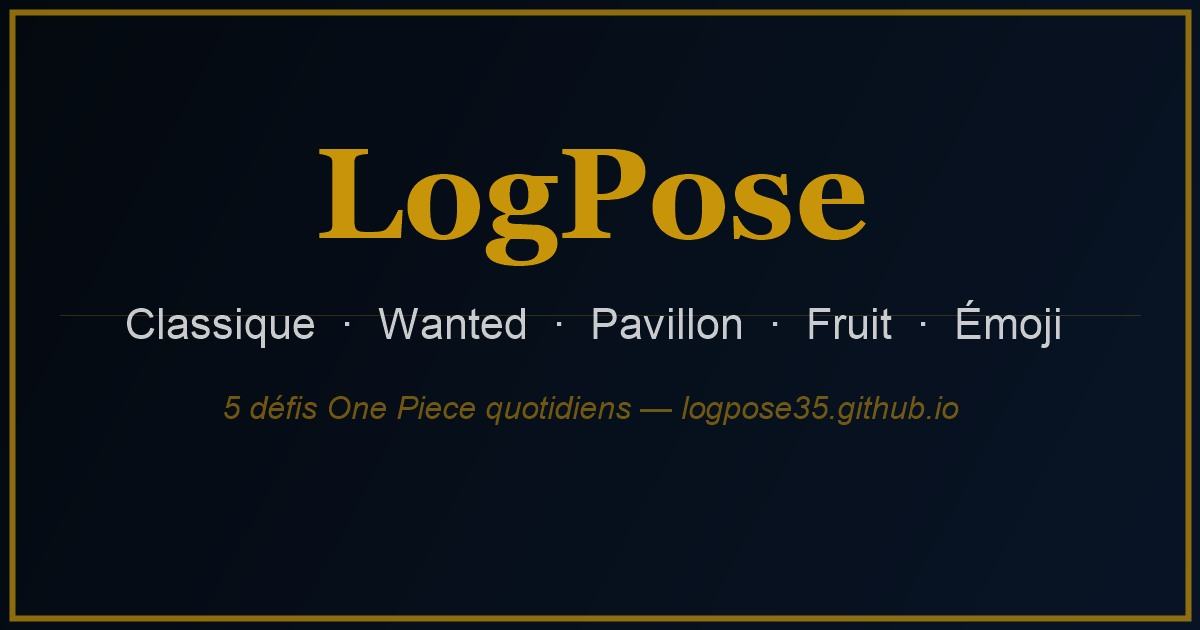
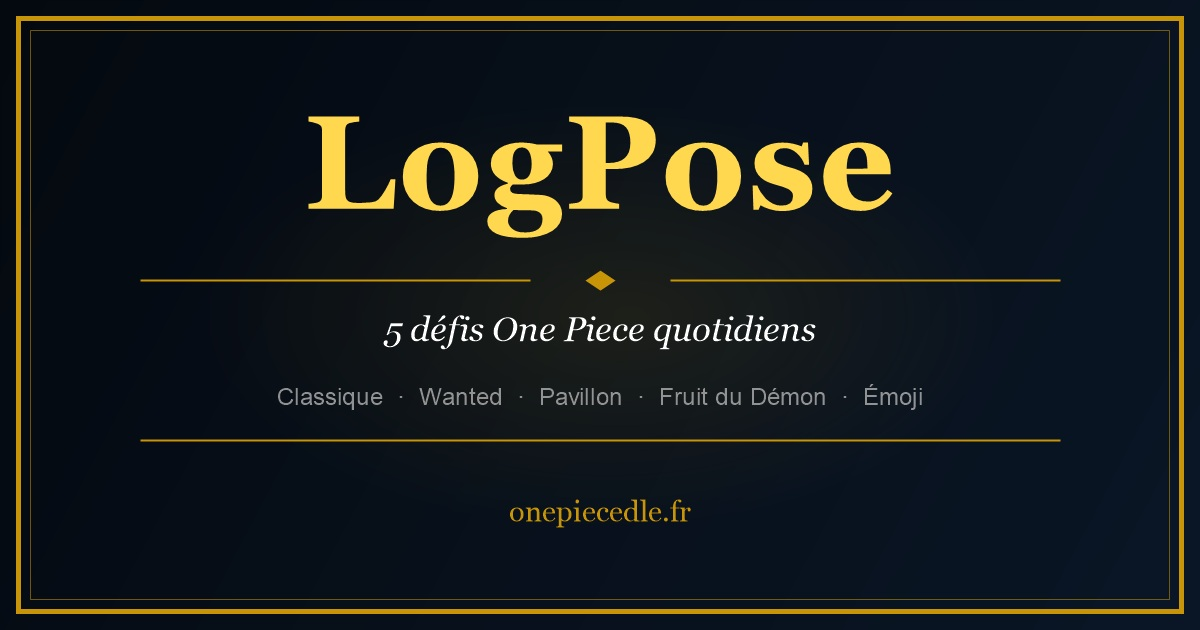
Fix barre hier (localStorage) + nouvelle og:image + v58
- "Hier" lu depuis localStorage au lieu du seed (précis après changement de données)
- Nouvelle og:image 1200x630 plus élaborée (cadre doré, géométrie, onepiecedle.fr)

diff --git a/js/app.js b/js/app.js
@@ -138,13 +138,30 @@ function seedForDate(d, salt = 1) {
   const base = d.getFullYear() * 10000 + (d.getMonth() + 1) * 100 + d.getDate();
   return (base * salt) >>> 0;
 }
-const yesterday = new Date(); yesterday.setDate(yesterday.getDate() - 1);
-const yChar   = CHARACTERS[seedForDate(yesterday,  1)   % CHARACTERS.length];
-const yWanted = WANTED_CHARS[seedForDate(yesterday, 31)  % WANTED_CHARS.length];
-const yFlag   = FLAGS[seedForDate(yesterday,        97)  % FLAGS.length];
-const yEmoji  = EMOJI_POOL[seedForDate(yesterday,   137) % EMOJI_POOL.length];
-document.getElementById('yesterday-bar').innerHTML =
-  `Hier — Classique : <strong>${esc(yChar.name)}</strong> &nbsp;|&nbsp; Wanted : <strong>${esc(yWanted.name)}</strong> &nbsp;|&nbsp; Pavillon : <strong>${esc(yFlag.name)}</strong> &nbsp;|&nbsp; Émoji : <strong>${esc(yEmoji.name)}</strong>`;
+// Sauvegarde les cibles du jour (une seule fois par jour, pour le "hier" de demain)
+function saveTodayTargets() {
+  const key = 'op-daily-' + todayKey();
+  if (lsGet(key)) return;
+  lsSet(key, JSON.stringify({
+    classic: TARGET_C.name,
+    wanted:  TARGET_W.name,
+    flag:    TARGET_F.name,
+    fruit:   TARGET_FRU.holder,
+    emoji:   TARGET_EM.name,
+  }));
+}
+saveTodayTargets();
+
+// Affiche la barre "hier" depuis localStorage (précis) ou la masque si absent
+function buildYesterdayBar() {
+  const d = new Date(); d.setDate(d.getDate() - 1);
+  const yKey = `${d.getFullYear()}-${d.getMonth()+1}-${d.getDate()}`;
+  const stored = JSON.parse(lsGet('op-daily-' + yKey) || 'null');
+  const el = document.getElementById('yesterday-bar');
+  if (!stored) { el.style.display = 'none'; return; }
+  el.innerHTML = `Hier — Classique : <strong>${esc(stored.classic)}</strong> &nbsp;|&nbsp; Wanted : <strong>${esc(stored.wanted)}</strong> &nbsp;|&nbsp; Pavillon : <strong>${esc(stored.flag)}</strong> &nbsp;|&nbsp; Émoji : <strong>${esc(stored.emoji)}</strong>`;
+}
+buildYesterdayBar();
 
 // ===== NAVIGATION PAR ONGLETS =====
 function switchMode(mode) {

diff --git a/index.html b/index.html
@@ -412,6 +412,6 @@
 
 <!-- Données chargées en premier, puis la logique du jeu -->
 <script src="js/data.js?v=40"></script>
-<script src="js/app.js?v=57"></script>
+<script src="js/app.js?v=58"></script>
 </body>
 </html>